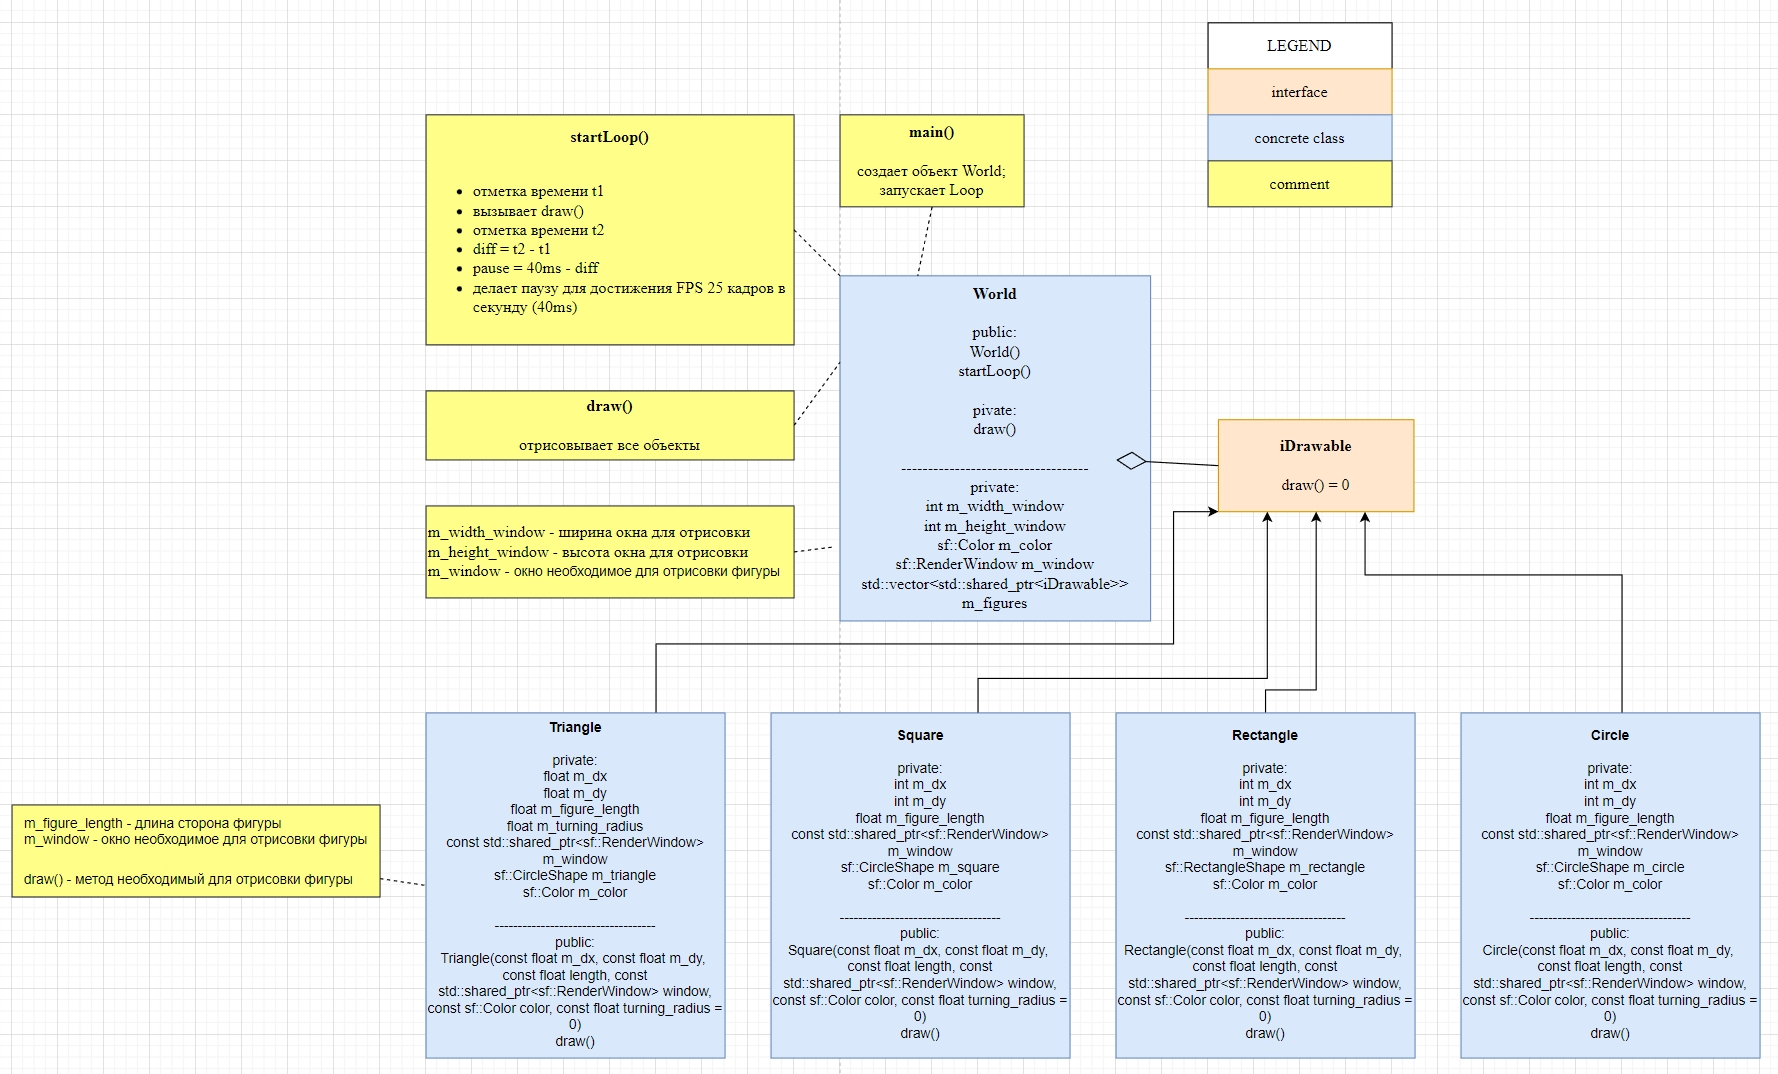
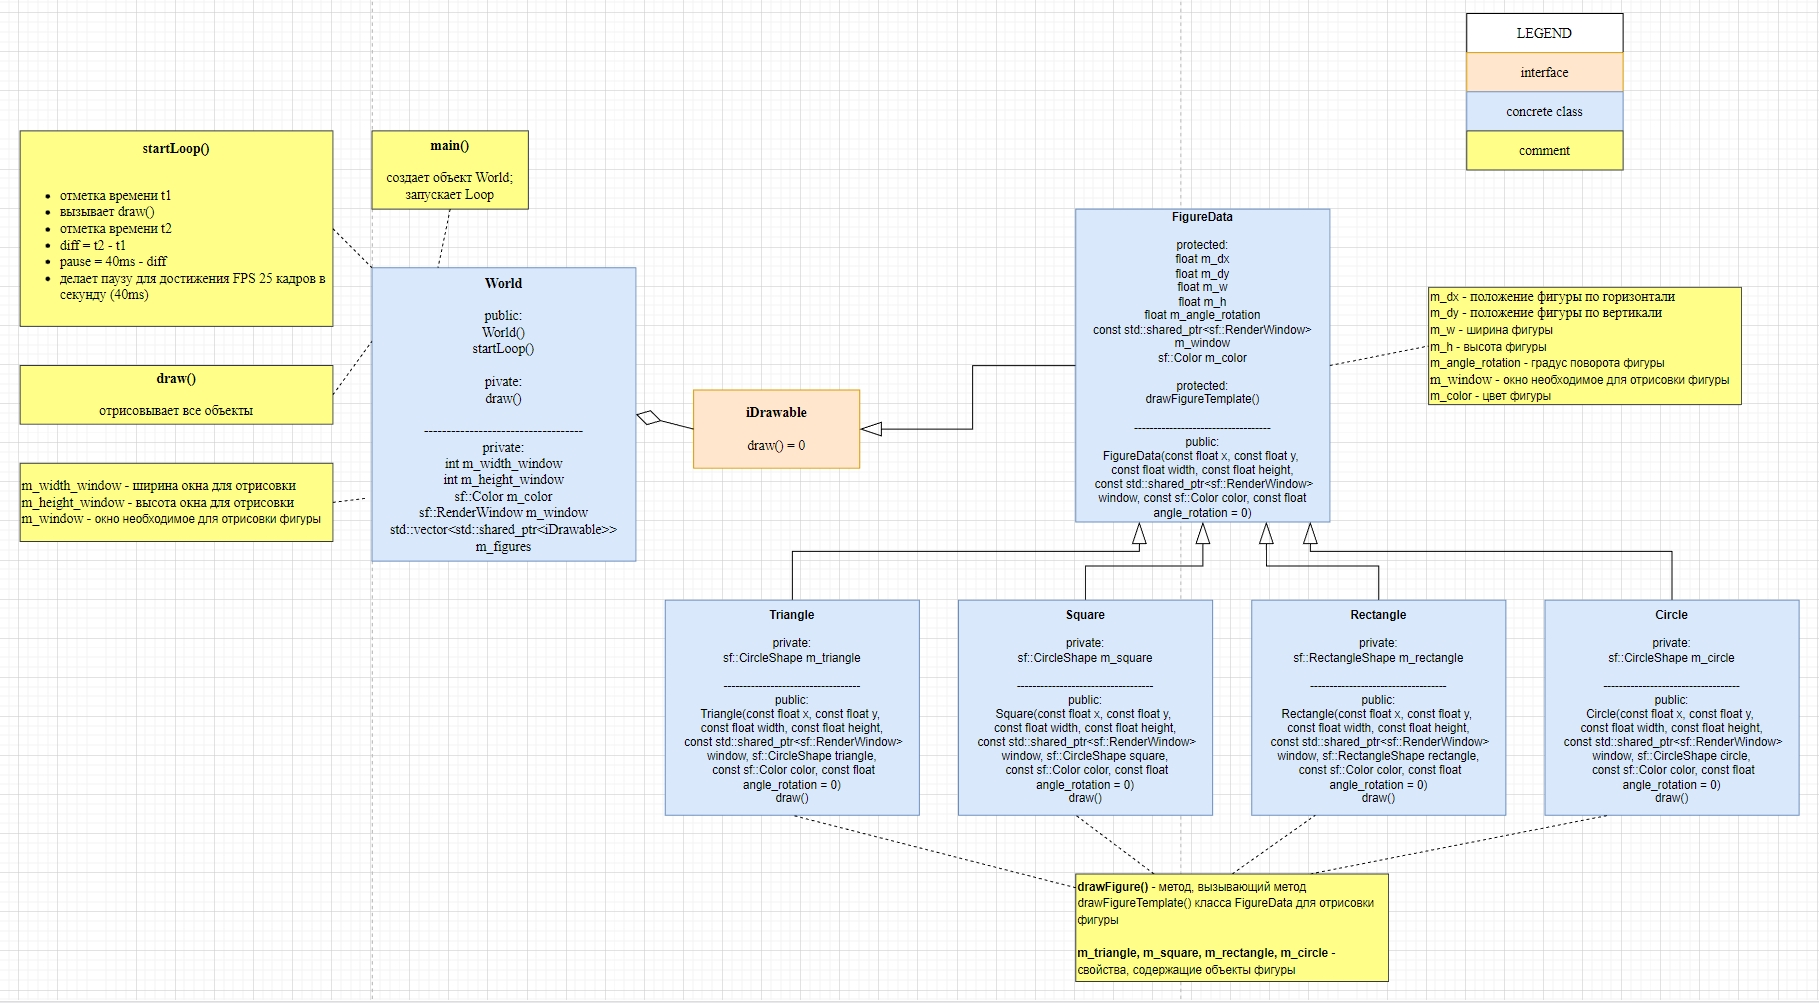
Added FigureData class. Changed other classes, diagram and image

diff --git a/2022-11-22 2120 Figures/figures/Figures/src/rectangle.cpp b/2022-11-22 2120 Figures/figures/Figures/src/rectangle.cpp
@@ -1,16 +1,14 @@
 #include "rectangle.h"
 
-Rectangle::Rectangle(const float x, const float y, const float length, const std::shared_ptr<sf::RenderWindow> window, const sf::Color color, const float turning_radius)
-    : m_dx(x), m_dy(y), m_figure_length(length), m_window(window), m_color(color), m_turning_radius(turning_radius)
+Rectangle::Rectangle(const float x, const float y, const float width, const float height,
+    const std::shared_ptr<sf::RenderWindow> window,
+    const sf::Color color, const float angle_rotation)
+    : FigureData(x, y, width, height, window, color, angle_rotation)
 {
-    m_rectangle = sf::RectangleShape(sf::Vector2f(m_figure_length + m_figure_length, m_figure_length));
+    m_rectangle = sf::RectangleShape(sf::Vector2f(width, height));
 }
 
 void Rectangle::draw()
 {
-    m_rectangle.setFillColor(m_color);
-    m_rectangle.setPosition(m_dx, m_dy);
-    m_rectangle.setOrigin(m_figure_length, m_figure_length);
-    m_rectangle.setRotation(m_turning_radius);
-    m_window->draw(m_rectangle);
+    drawFigureTemplate(m_rectangle);
 }

diff --git a/2022-11-22 2120 Figures/figures/Figures/src/triangle.cpp b/2022-11-22 2120 Figures/figures/Figures/src/triangle.cpp
@@ -1,16 +1,14 @@
 #include "triangle.h"
 
-Triangle::Triangle(const float x, const float y, const float length, const std::shared_ptr<sf::RenderWindow> window, const sf::Color color, const float turning_radius)
-    : m_dx(x), m_dy(y), m_figure_length(length), m_window(window), m_color(color), m_turning_radius(turning_radius)
+Triangle::Triangle(const float x, const float y, const float width, const float height,
+    const std::shared_ptr<sf::RenderWindow> window,
+    const sf::Color color, const float angle_rotation)
+    : FigureData(x, y, width, height, window, color, angle_rotation)
 {
-    m_triangle = sf::CircleShape(m_figure_length, 3);
+    m_triangle = sf::CircleShape(width, 3);
 }
 
 void Triangle::draw()
 {
-    m_triangle.setFillColor(m_color);
-    m_triangle.setPosition(m_dx, m_dy);
-    m_triangle.setOrigin(m_figure_length, m_figure_length);
-    m_triangle.setRotation(m_turning_radius);
-    m_window->draw(m_triangle);
+    drawFigureTemplate(m_triangle);
 }

diff --git a/2022-11-22 2120 Figures/figures/Figures/src/square.cpp b/2022-11-22 2120 Figures/figures/Figures/src/square.cpp
@@ -1,16 +1,14 @@
 #include "square.h"
 
-Square::Square(const float x, const float y, const float length, const std::shared_ptr<sf::RenderWindow> window, const sf::Color color, const float turning_radius)
-    : m_dx(x), m_dy(y), m_figure_length(length), m_window(window), m_color(color), m_turning_radius(turning_radius)
+Square::Square(const float x, const float y, const float width, const float height,
+    const std::shared_ptr<sf::RenderWindow> window,
+    const sf::Color color, const float angle_rotation)
+    : FigureData(x, y, width, height, window, color, angle_rotation)
 {
-    m_square = sf::CircleShape(m_figure_length, 4);
+    m_square = sf::CircleShape(width, 4);
 }
 
 void Square::draw()
 {
-    m_square.setFillColor(m_color);
-    m_square.setPosition(m_dx, m_dy);
-    m_square.setOrigin(m_figure_length, m_figure_length);
-    m_square.setRotation(m_turning_radius);
-    m_window->draw(m_square);
+    drawFigureTemplate(m_square);
 }

diff --git a/2022-11-22 2120 Figures/figures/Figures/src/circle.cpp b/2022-11-22 2120 Figures/figures/Figures/src/circle.cpp
@@ -1,16 +1,14 @@
 #include "circle.h"
 
-Circle::Circle(const float x, const float y, const float length, const std::shared_ptr<sf::RenderWindow> window, const sf::Color color, const float turning_radius)
-    : m_dx(x), m_dy(y), m_figure_length(length), m_window(window), m_color(color), m_turning_radius(turning_radius)
+Circle::Circle(const float x, const float y, const float width, const float height,
+    const std::shared_ptr<sf::RenderWindow> window,
+    const sf::Color color, const float angle_rotation)
+    : FigureData(x, y, width, height, window, color, angle_rotation)
 {
-    m_circle = sf::CircleShape(m_figure_length);
+    m_circle  = sf::CircleShape(width);
 }
 
 void Circle::draw()
 {
-    m_circle.setFillColor(m_color);
-    m_circle.setPosition(m_dx, m_dy);
-    m_circle.setOrigin(m_figure_length, m_figure_length);
-    m_circle.setRotation(m_turning_radius);
-    m_window->draw(m_circle);
+    drawFigureTemplate(m_circle);
 }

diff --git a/2022-11-22 2120 Figures/figures/Figures/src/figure_data.cpp b/2022-11-22 2120 Figures/figures/Figures/src/figure_data.cpp
@@ -1,0 +1,25 @@
+#include "figure_data.h"
+
+FigureData::FigureData(const float x, const float y, const float width, const float height,
+    const std::shared_ptr<sf::RenderWindow> window, const sf::Color color, const float angle_rotation) 
+    : m_dx(x), m_dy(y), m_w(width), m_h(height), m_window(window), m_color(color), m_angle_rotation(angle_rotation)
+{
+}
+
+void FigureData::drawFigureTemplate(sf::CircleShape figure)
+{
+    figure.setFillColor(m_color);
+    figure.setPosition(m_dx, m_dy);
+    figure.setOrigin(m_w, m_h);
+    figure.setRotation(m_angle_rotation);
+    m_window->draw(figure);
+}
+
+void FigureData::drawFigureTemplate(sf::RectangleShape figure)
+{
+    figure.setFillColor(m_color);
+    figure.setPosition(m_dx, m_dy);
+    figure.setOrigin(m_w, m_h);
+    figure.setRotation(m_angle_rotation);
+    m_window->draw(figure);
+}

diff --git a/2022-11-22 2120 Figures/figures/Figures/src/rectangle.h b/2022-11-22 2120 Figures/figures/Figures/src/rectangle.h
@@ -1,18 +1,15 @@
 #pragma once
-#include "i_drawable.h"
+#include "figure_data.h"
+#include <SFML/Graphics.hpp>
 
-class Rectangle : public iDrawable
+class Rectangle : public FigureData
 {
 private:
-    float m_dx;
-    float m_dy;
-    float m_figure_length;
-    float m_turning_radius;
-    const std::shared_ptr<sf::RenderWindow> m_window;
     sf::RectangleShape m_rectangle;
-    sf::Color m_color;
 
 public:
-    Rectangle(const float x, const float y, const float length, const std::shared_ptr<sf::RenderWindow> window, const sf::Color color, const float turning_radius = 0);
+    Rectangle(const float x, const float y, const float width, const float height,
+        const std::shared_ptr<sf::RenderWindow> window,
+        const sf::Color color, const float angle_rotation = 0);
     void draw() override;
 };

diff --git a/2022-11-22 2120 Figures/figures/Figures/src/triangle.h b/2022-11-22 2120 Figures/figures/Figures/src/triangle.h
@@ -1,18 +1,15 @@
 #pragma once
-#include "i_drawable.h"
+#include "figure_data.h"
+#include <SFML/Graphics.hpp>
 
-class Triangle : public iDrawable
+class Triangle : public FigureData
 {
 private:
-    float m_dx;
-    float m_dy;
-    float m_figure_length;
-    float m_turning_radius;
-    const std::shared_ptr<sf::RenderWindow> m_window;
     sf::CircleShape m_triangle;
-    sf::Color m_color;
 
 public:
-    Triangle(const float x, const float y, const float length, const std::shared_ptr<sf::RenderWindow> window, const sf::Color color, const float turning_radius = 0);
+    Triangle(const float x, const float y, const float width, const float height,
+        const std::shared_ptr<sf::RenderWindow> window,
+        const sf::Color color, const float angle_rotation = 0);
     void draw() override;
 };

diff --git a/2022-11-22 2120 Figures/figures/Figures/src/circle.h b/2022-11-22 2120 Figures/figures/Figures/src/circle.h
@@ -1,18 +1,15 @@
 #pragma once
-#include "i_drawable.h"
+#include "figure_data.h"
+#include <SFML/Graphics.hpp>
 
-class Circle : public iDrawable
+class Circle : public FigureData
 {
 private:
-    float m_dx;
-    float m_dy;
-    float m_figure_length;
-    float m_turning_radius;
-    const std::shared_ptr<sf::RenderWindow> m_window;
     sf::CircleShape m_circle;
-    sf::Color m_color;
 
 public:
-    Circle(const float x, const float y, const float length, const std::shared_ptr<sf::RenderWindow> window, const sf::Color color, const float turning_radius = 0);
+    Circle(const float x, const float y, const float width, const float height, 
+        const std::shared_ptr<sf::RenderWindow> window,
+        const sf::Color color, const float angle_rotation = 0);
     void draw() override;
 };

diff --git a/2022-11-22 2120 Figures/figures/Figures/src/square.h b/2022-11-22 2120 Figures/figures/Figures/src/square.h
@@ -1,18 +1,15 @@
 #pragma once
-#include "i_drawable.h"
+#include "figure_data.h"
+#include <SFML/Graphics.hpp>
 
-class Square : public iDrawable
+class Square : public FigureData
 {
 private:
-    float m_dx;
-    float m_dy;
-    float m_figure_length;
-    float m_turning_radius;
-    const std::shared_ptr<sf::RenderWindow> m_window;
     sf::CircleShape m_square;
-    sf::Color m_color;
 
 public:
-    Square(const float x, const float y, const float length, const std::shared_ptr<sf::RenderWindow> window, const sf::Color color, const float turning_radius = 0);
+    Square(const float x, const float y, const float width, const float height,
+        const std::shared_ptr<sf::RenderWindow> window,
+        const sf::Color color, const float angle_rotation = 0);
     void draw() override;
 };

diff --git a/2022-11-22 2120 Figures/figures/Figures/src/world.h b/2022-11-22 2120 Figures/figures/Figures/src/world.h
@@ -1,21 +1,21 @@
 #pragma once
 #include "i_drawable.h"
-#include "figure.h"
-//#include "circle.h"
-//#include "rectangle.h"
-//#include "square.h"
-//#include "triangle.h"
+#include "circle.h"
+#include "rectangle.h"
+#include "square.h"
+#include "triangle.h"
 #include <chrono>
 #include <thread>
+#include <SFML/Graphics.hpp>
 
-class World : public iDrawable
+class World : public IDrawable
 {
     private:
         int m_width_window;
         int m_height_window;
         sf::Color m_color = sf::Color(192, 192, 192);
         std::shared_ptr<sf::RenderWindow> m_window;
-        std::vector<std::shared_ptr<iDrawable>> m_figures;
+        std::vector<std::shared_ptr<IDrawable>> m_figures;
         void draw() override;
 
     public:

diff --git a/2022-11-22 2120 Figures/figures/Figures/src/figure_data.h b/2022-11-22 2120 Figures/figures/Figures/src/figure_data.h
@@ -1,0 +1,21 @@
+#pragma once
+#include "i_drawable.h"
+#include <SFML/Graphics.hpp>
+
+class FigureData : public IDrawable
+{
+private:
+    float m_dx;
+    float m_dy;
+    float m_w;
+    float m_h;
+    float m_angle_rotation;
+    const std::shared_ptr<sf::RenderWindow> m_window;
+    sf::Color m_color;
+
+public:
+    FigureData(const float x, const float y, const float width, const float height,
+        const std::shared_ptr<sf::RenderWindow> window, const sf::Color color, const float angle_rotation = 0);
+    void drawFigureTemplate(sf::CircleShape figure);
+    void drawFigureTemplate(sf::RectangleShape figure);
+};
